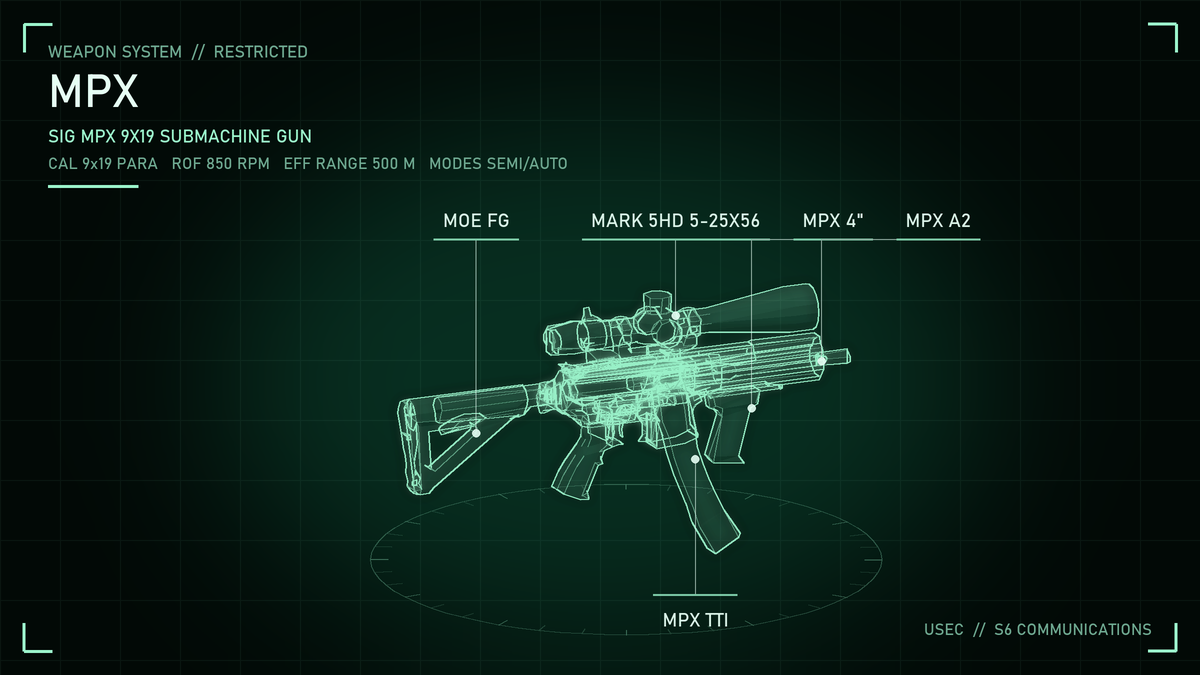
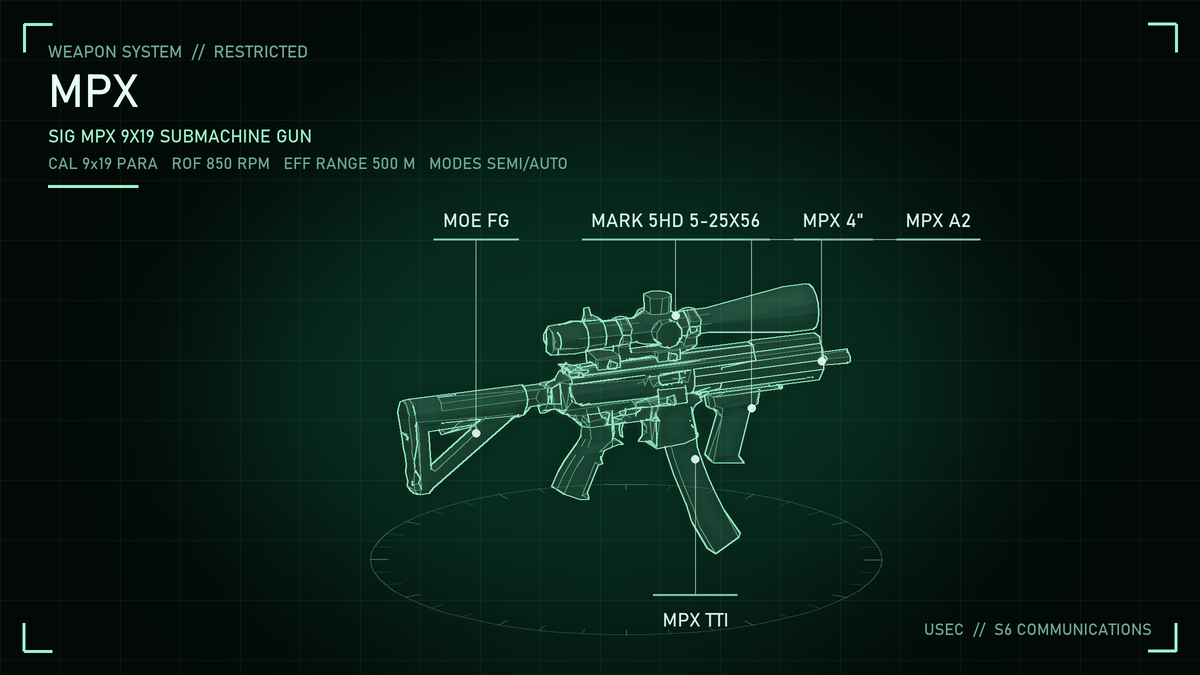
CLASSIFIED: cleaner mod-page images, fix the tabset close
- make_showcase.py hides what is behind the model: a depth buffer of its
  faces, outlines and creases drawn only where seen, and the fill taken
  from the nearest face, so inner parts no longer show through.
- Wireframes, weapon cards and the collage redrawn.
- MOD-PAGE.md: the Forge has no {.endtabset}; the tabs now end at an
  "End of transmission" heading.

Changed region(s): [[0.4317, 0.4356, 0.7092, 0.6533], [0.3392, 0.5911, 0.4008, 0.6533], [0.3392, 0.6844, 0.37, 0.7156]]

diff --git a/scripts/make_showcase.py b/scripts/make_showcase.py
@@ -107,6 +107,86 @@ def edges_of(v, f, crease_deg=32.0):
     return n, edges
 
 
+def visible(pv, pn, f, edges, P, W, H):
+    """
+    What the eye sees of the model, so hidden parts do not show through: a depth buffer of its
+    faces, each pixel's light from the nearest face (NaN where empty), and the outline and crease
+    segments not behind anything, each as (points, is_outline).
+    """
+    light = np.array([0.25, 0.75, 0.6])
+    light /= np.linalg.norm(light)
+    sx = np.array([P(p)[0] for p in pv])
+    sy = np.array([P(p)[1] for p in pv])
+    sz = pv[:, 2]
+    zbuf = np.full((H, W), -np.inf)
+    lit = np.full((H, W), np.nan)
+    shade = np.clip(np.abs(pn @ light), 0, 1)
+    for i, (a, b, c) in enumerate(f):
+        x0, x1 = int(max(0, min(sx[a], sx[b], sx[c]))), int(min(W - 1, max(sx[a], sx[b], sx[c]) + 1))
+        y0, y1 = int(max(0, min(sy[a], sy[b], sy[c]))), int(min(H - 1, max(sy[a], sy[b], sy[c]) + 1))
+        if x1 < x0 or y1 < y0:
+            continue
+        area = (sx[b] - sx[a]) * (sy[c] - sy[a]) - (sx[c] - sx[a]) * (sy[b] - sy[a])
+        if abs(area) < 1e-9:
+            continue
+        gx, gy = np.meshgrid(np.arange(x0, x1 + 1) + 0.5, np.arange(y0, y1 + 1) + 0.5)
+        w0 = ((sx[b] - gx) * (sy[c] - gy) - (sx[c] - gx) * (sy[b] - gy)) / area
+        w1 = ((sx[c] - gx) * (sy[a] - gy) - (sx[a] - gx) * (sy[c] - gy)) / area
+        w2 = 1 - w0 - w1
+        inside = (w0 >= 0) & (w1 >= 0) & (w2 >= 0)
+        if not inside.any():
+            continue
+        z = w0 * sz[a] + w1 * sz[b] + w2 * sz[c]
+        zb = zbuf[y0:y1 + 1, x0:x1 + 1]
+        near = inside & (z > zb)
+        zb[near] = z[near]
+        lit[y0:y1 + 1, x0:x1 + 1][near] = shade[i]
+    # An edge point is seen if, close by, nothing stands in front of it by more than a hair.
+    span = float(sz.max() - sz.min())
+    eps = span * 0.012
+    reach = 2
+    nearest = zbuf.copy()
+    pad = np.pad(zbuf, reach, constant_values=-np.inf)
+    for dy in range(-reach, reach + 1):
+        for dx in range(-reach, reach + 1):
+            nearest = np.minimum(nearest, pad[reach + dy:reach + dy + H, reach + dx:reach + dx + W])
+    front = pn[:, 2] > 0
+    segments = []
+    for a, b, f0, f1, crease in edges:
+        outline = f1 < 0 or front[f0] != front[f1]
+        seen = front[f0] or (f1 >= 0 and front[f1])
+        if not (outline or (crease and seen)):
+            continue
+        length = math.hypot(sx[b] - sx[a], sy[b] - sy[a])
+        k = max(2, int(length / 1.5) + 1)
+        t = np.linspace(0, 1, k)
+        xs, ys, zs = sx[a] + (sx[b] - sx[a]) * t, sy[a] + (sy[b] - sy[a]) * t, sz[a] + (sz[b] - sz[a]) * t
+        ix, iy = np.clip(xs.astype(int), 0, W - 1), np.clip(ys.astype(int), 0, H - 1)
+        ok = nearest[iy, ix] <= zs + eps
+        # Runs of seen points become segments.
+        j = 0
+        while j < k:
+            if not ok[j]:
+                j += 1
+                continue
+            e = j
+            while e + 1 < k and ok[e + 1]:
+                e += 1
+            if e > j:
+                segments.append(([(xs[j], ys[j]), (xs[e], ys[e])], outline))
+            j = e + 1
+    return lit, segments
+
+
+def shaded(lit, colour, base, gain):
+    """The nearest faces in one colour, their alpha rising with the light on them."""
+    alpha = np.where(np.isnan(lit), 0, base + gain * np.nan_to_num(lit)).astype(np.uint8)
+    rgba = np.empty(lit.shape + (4,), np.uint8)
+    rgba[..., :3] = colour
+    rgba[..., 3] = alpha
+    return Image.fromarray(rgba, "RGBA")
+
+
 def font(size):
     return ImageFont.truetype(FONT, int(size * SS))
 
@@ -166,26 +246,12 @@ def card(iid, unit, specs, yaw=0.42, pitch=0.30):
     bg = Image.alpha_composite(bg, table)
 
     # Faces: faint, lit from above and in front; then outlines and creases over them, with a glow.
-    faces = Image.new("RGBA", (W, H), (0, 0, 0, 0))
-    fd = ImageDraw.Draw(faces)
-    light = np.array([0.25, 0.75, 0.6])
-    light /= np.linalg.norm(light)
-    depth = pv[f].mean(axis=1)[:, 2]
-    for i in np.argsort(depth):
-        z = pn[i][2]
-        if z <= 0:
-            continue
-        lit = max(0.0, float(pn[i] @ light))
-        fd.polygon([P(pv[j]) for j in f[i]], fill=accent + (int(14 + 40 * lit),))
+    lit, segments = visible(pv, pn, f, edges, P, W, H)
+    faces = shaded(lit, accent, 14, 40)
     lines = Image.new("RGBA", (W, H), (0, 0, 0, 0))
     ld = ImageDraw.Draw(lines)
-    front = pn[:, 2] > 0
-    for a, b, f0, f1, crease in edges:
-        outline = f1 < 0 or front[f0] != front[f1]
-        seen = front[f0] or (f1 >= 0 and front[f1])
-        if not (outline or (crease and seen)):
-            continue
-        ld.line([P(pv[a]), P(pv[b])], fill=accent + (235 if outline else 130,), width=int((1.6 if outline else 1.1) * SS))
+    for pts, outline in segments:
+        ld.line(pts, fill=accent + (235 if outline else 130,), width=int((1.6 if outline else 1.1) * SS))
     blur = lines.filter(ImageFilter.GaussianBlur(5 * SS))
     bg = Image.alpha_composite(bg, faces)
     bg = Image.alpha_composite(bg, blur)
@@ -288,25 +354,13 @@ def bare(iid, colour, width=1600, yaw=0.42, pitch=0.30):
     def P(p):
         return (W / 2 + (p[0] - mid[0]) * scale, H / 2 - (p[1] - mid[1]) * scale)
 
-    faces = Image.new("RGBA", (W, H), (0, 0, 0, 0))
-    fd = ImageDraw.Draw(faces)
-    light = np.array([0.25, 0.75, 0.6])
-    light /= np.linalg.norm(light)
-    for i in np.argsort(pv[f].mean(axis=1)[:, 2]):
-        if pn[i][2] <= 0:
-            continue
-        lit = max(0.0, float(pn[i] @ light))
-        fd.polygon([P(pv[j]) for j in f[i]], fill=colour + (int(16 + 44 * lit),))
+    lit, segments = visible(pv, pn, f, edges, P, W, H)
+    faces = shaded(lit, colour, 16, 44)
     lines = Image.new("RGBA", (W, H), (0, 0, 0, 0))
     ld = ImageDraw.Draw(lines)
-    front = pn[:, 2] > 0
     thick = W / (1600 * SS)
-    for a, b, f0, f1, crease in edges:
-        outline = f1 < 0 or front[f0] != front[f1]
-        seen = front[f0] or (f1 >= 0 and front[f1])
-        if not (outline or (crease and seen)):
-            continue
-        ld.line([P(pv[a]), P(pv[b])], fill=colour + (255 if outline else 175,), width=max(1, int((2.4 if outline else 1.5) * SS * thick)))
+    for pts, outline in segments:
+        ld.line(pts, fill=colour + (255 if outline else 175,), width=max(1, int((2.4 if outline else 1.5) * SS * thick)))
     # A tight glow, half strength: it lifts the lines on a dark page without blurring them on a light one.
     glow = lines.filter(ImageFilter.GaussianBlur(3 * SS * thick))
     glow.putalpha(glow.getchannel("A").point(lambda a: a // 2))

diff --git a/MOD-PAGE.md b/MOD-PAGE.md
@@ -5,7 +5,8 @@
   The Forge allows no background or styling of its own (raw HTML is stripped), so the look
   comes from images, plus three Forge extras:
     - a blockquote followed by a line "{.is-info}" / "{.is-danger}" becomes a coloured box;
-    - "## Title {.tabset}" turns the ### headings under it into tabs, up to "{.endtabset}";
+    - "## Title {.tabset}" turns the ### headings under it into tabs, up to the next ## heading
+      (there is no closing marker: a stray "{.endtabset}" shows as text);
     - a YouTube link on a line of its own embeds a player.
   Check it in the Forge editor's preview before saving.
 
@@ -130,7 +131,7 @@ In the F12 menu, under **CLASSIFIED**:
 
 Delete `BepInEx\plugins\CLASSIFIED.dll`. To remove its settings and launch history too, delete the files starting with `com.mybutthasarash.classified` in `BepInEx\config`.
 
-{.endtabset}
+## End of transmission
 
 ![](https://raw.githubusercontent.com/JoelHauser/CLASSIFIED/main/docs/images/wireframes/svds_2.png)
 
